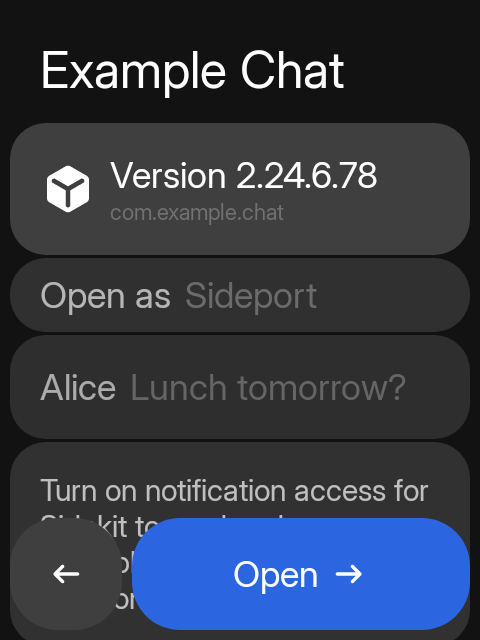
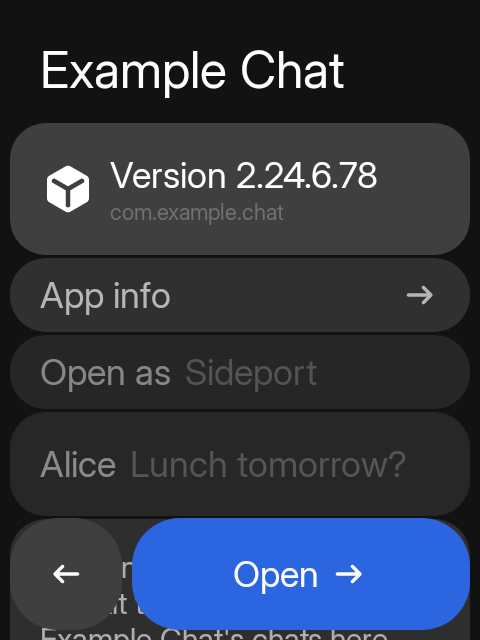
feat(ui): keep navigation in rows and reset in the bar
Keypad mapping shows Reset keys in the bar only while custom bindings exist, and no longer duplicates it in Options. Sideport's App info becomes a row with a right arrow; Options keeps only Remove/Uninstall. Apply the same rule to Mail Account, Sideplay Settings, Sideweather Locations, Compass Bookmarks, and Sideplay Now playing, and make Arrange apps' Reset a conditional bar action. Update the UI-pattern docs and screenshots.

diff --git a/app/src/main/java/hrln/interactive/sidekit/apps/mail/MailGraph.kt b/app/src/main/java/hrln/interactive/sidekit/apps/mail/MailGraph.kt
@@ -81,12 +81,9 @@ fun NavGraphBuilder.mailGraph(nav: NavHostController) {
             SidekitScaffold(
                 title = "Mail",
                 actions = actions,
-                options = listOf(
-                    SideAction("refresh", "Refresh inbox") { vm.refresh() },
-                    SideAction("account", "Account") { nav.navigate("$ROOT/account") }
-                )
+                options = listOf(SideAction("refresh", "Refresh inbox") { vm.refresh() })
             ) { padding ->
-                MessageList(padding, messages, null, vm::delete) { nav.navigate(if (it.folder == MailFolder.Inbox || it.folder == MailFolder.Sent) "$ROOT/read/${it.id}" else "$ROOT/compose?id=${it.id}") }
+                MessageList(padding, messages, null, vm::delete, onAccount = { nav.navigate("$ROOT/account") }) { nav.navigate(if (it.folder == MailFolder.Inbox || it.folder == MailFolder.Sent) "$ROOT/read/${it.id}" else "$ROOT/compose?id=${it.id}") }
             }
         }
         composable("$ROOT/account") {
@@ -218,6 +215,7 @@ private fun MessageList(
     messages: List<MailMessage>?,
     folder: MailFolder?,
     onDelete: (Long) -> Unit,
+    onAccount: (() -> Unit)? = null,
     onOpen: (MailMessage) -> Unit
 ) {
     val shown = messages.orEmpty().filter { folder == null || it.folder == folder }
@@ -229,13 +227,18 @@ private fun MessageList(
                 SidekitText("Inbox cache · refresh to check your server. Swipe deletes the cached copy only.", style = SidekitTheme.typography.caption, color = SidekitTheme.colors.surfaceA6, maxLines = Int.MAX_VALUE)
             }
         }
+        if (onAccount != null) {
+            item(key = "account") {
+                SidekitItem("Account", Modifier.listFade(state, 1), showLinkArrow = true, onClick = onAccount)
+            }
+        }
         if (messages != null && shown.isEmpty()) {
             item(key = "empty") {
-                SidekitItem(if (folder == null) "No local messages" else "No ${folder.label.lowercase()}", Modifier.listFade(state, 1), secondary = "Compose creates a draft on this phone")
+                SidekitItem(if (folder == null) "No local messages" else "No ${folder.label.lowercase()}", Modifier.listFade(state, 2), secondary = "Compose creates a draft on this phone")
             }
         }
         itemsIndexed(shown, key = { _, it -> it.id }) { index, message ->
-            SidekitSwipeRow(key = message.id, group = swipe, onDelete = { onDelete(message.id) }, modifier = Modifier.animateItem().listFade(state, index + 1), deleteLabel = "Delete message") {
+            SidekitSwipeRow(key = message.id, group = swipe, onDelete = { onDelete(message.id) }, modifier = Modifier.animateItem().listFade(state, index + 2), deleteLabel = "Delete message") {
                 SidekitItem((if (message.folder == MailFolder.Inbox) message.sender else message.to).ifEmpty { "No recipient" }, secondary = "${message.folder.label} · ${message.subject.ifEmpty { "No subject" }}", onClick = { onOpen(message) })
             }
         }

diff --git a/app/src/test/java/hrln/interactive/sidekit/apps/sideport/SideportHubUiTest.kt b/app/src/test/java/hrln/interactive/sidekit/apps/sideport/SideportHubUiTest.kt
@@ -22,7 +22,7 @@ import org.junit.runner.RunWith
 import org.robolectric.annotation.Config
 import org.robolectric.annotation.GraphicsMode
 
-/** A ported app's hub: the app header, its chats and media, and Remove/Uninstall in the body. */
+/** A ported app's hub: the app header, its chats and media, and Remove/Uninstall in Options. */
 @RunWith(AndroidJUnit4::class)
 @Config(sdk = [31])
 @GraphicsMode(GraphicsMode.Mode.NATIVE)
@@ -67,14 +67,17 @@ class SideportHubUiTest {
 
     private fun installed() = SideportHubUiState(app, version = "2.24.6.78", chats = listOf(chat))
 
-    @Test fun `hub shows the app and its version, with actions in Options`() {
+    @Test fun `hub shows the app, its version and App info as a row`() {
         show(installed())
         compose.onRoot().captureRoboImage("screenshots/sideport_hub.png")
         compose.onNodeWithText("Version 2.24.6.78").assertExists()
         compose.onNodeWithText("com.example.chat").assertExists()
+        compose.onNodeWithText("App info").assertExists()
         compose.onNodeWithText("Open as").assertExists()
         compose.onNodeWithText("Remove from Sideport").assertDoesNotExist()
         compose.onNodeWithText("Uninstall app").assertDoesNotExist()
+        compose.onNodeWithText("App info").performClick()
+        assertEquals(listOf("info"), calls)
     }
 
     @Test fun `a message replaces the bar and dismisses on tap`() {
@@ -127,20 +130,19 @@ class SideportHubUiTest {
         compose.onNodeWithText("Cancel").assertDoesNotExist()
     }
 
-    @Test fun `Options holds the app's secondary actions`() {
+    @Test fun `Options holds only the destructive actions`() {
         show(installed())
         compose.runOnIdle { chrome.toggleOptions() }
-        compose.onNodeWithText("App info").assertExists()
+        // App info stays a single row; Options adds only the destructive actions.
+        compose.onAllNodesWithText("App info").assertCountEquals(1)
         compose.onNodeWithText("Remove from Sideport").assertExists()
         compose.onNodeWithText("Uninstall app").assertExists()
-        compose.onNodeWithText("App info").performClick()
-        assertEquals(listOf("info"), calls)
     }
 
-    @Test fun `an app that is gone has no App info or Uninstall`() {
+    @Test fun `an app that is gone has no App info row or Uninstall`() {
         show(SideportHubUiState(app, version = null))
-        compose.runOnIdle { chrome.toggleOptions() }
         compose.onNodeWithText("App info").assertDoesNotExist()
+        compose.runOnIdle { chrome.toggleOptions() }
         compose.onNodeWithText("Uninstall app").assertDoesNotExist()
         compose.onNodeWithText("Remove from Sideport").assertExists()
     }

diff --git a/app/src/main/java/hrln/interactive/sidekit/apps/sideweather/SideweatherGraph.kt b/app/src/main/java/hrln/interactive/sidekit/apps/sideweather/SideweatherGraph.kt
@@ -75,7 +75,7 @@ fun NavGraphBuilder.sideweatherGraph(nav: NavHostController) {
                 if (page in listOf("home", "hourly", "five-day")) WhileVisible(place?.key) { vm.visible(place) }
                 val back = { nav.popBackStack(); Unit }
                 val locations = { nav.navigate("$root/locations") { launchSingleTop = true }; Unit }
-                val options = listOf(SideAction("locations", "Locations", onClick = locations), SideAction("units", if (imperial) "Use °C" else "Use °F") { vm.repository.settings.edit { it.copy(fahrenheit = !it.fahrenheit) } })
+                val options = listOf(SideAction("units", if (imperial) "Use °C" else "Use °F") { vm.repository.settings.edit { it.copy(fahrenheit = !it.fahrenheit) } })
                 when (page) {
                     "search" -> PlaceSearch(back) {
                         vm.repository.select(it)
@@ -119,7 +119,7 @@ fun NavGraphBuilder.sideweatherGraph(nav: NavHostController) {
                         }
                     }
 
-                    "home" -> SideweatherHomeScreen(forecast?.let { f -> place?.let { f.current(it, imperial) } } ?: CurrentConditions(place?.name ?: "Choose a location", "—", "", ""), forecast?.summary(imperial).orEmpty() + WeatherRow(error ?: status, ""), { nav.navigate("$root/hourly") }, { nav.navigate("$root/five-day") }, options)
+                    "home" -> SideweatherHomeScreen(forecast?.let { f -> place?.let { f.current(it, imperial) } } ?: CurrentConditions(place?.name ?: "Choose a location", "—", "", ""), forecast?.summary(imperial).orEmpty() + WeatherRow(error ?: status, ""), { nav.navigate("$root/hourly") }, { nav.navigate("$root/five-day") }, locations, options)
                     else -> ForecastScreen(if (page == "hourly") "Hourly forecast" else "5-day forecast", (if (page == "hourly") forecast?.hourly(imperial) else forecast?.daily(imperial)).orEmpty() + WeatherRow(status, ""), back, locations, place = place?.name)
                 }
             }

diff --git a/app/src/main/java/hrln/interactive/sidekit/apps/settings/KeypadMappingScreen.kt b/app/src/main/java/hrln/interactive/sidekit/apps/settings/KeypadMappingScreen.kt
@@ -70,11 +70,20 @@ internal fun KeypadMappingScreen(back: () -> Unit, learn: (KeypadModule, KeypadC
     val list = rememberLazyListState()
     fun toggle() { keypad?.useCustomMapping(if (custom == null) keypad.module else null) }
     fun nextLayout() { custom?.let { keypad.useCustomMapping(KeypadModule.entries[(it.ordinal + 1) % KeypadModule.entries.size]) } }
-    val options = buildList {
-        if (custom != null && bindings.isNotEmpty()) add(SideAction("reset", "Reset keys", SidekitIcon.Undo, tone = ActionTone.Destructive) { mapper.resetAll(custom) })
-        if (custom != null) add(SideAction("automatic", "Use automatic", tone = ActionTone.Muted) { keypad.useCustomMapping(null) })
+    // Reset is a bar action only when there is something to reset, so it never sits around as a
+    // dead option. Switching back to automatic stays in Options: it is a mode change, not a reset.
+    val actions = buildList {
+        add(SideAction.back("back", "Settings", back))
+        if (custom != null && bindings.isNotEmpty()) {
+            add(SideAction("reset", "Reset keys", SidekitIcon.Undo, tone = ActionTone.Destructive) { mapper.resetAll(custom) })
+        }
     }
-    SidekitScaffold("Keypad mapping", actions = listOf(SideAction.back("back", "Settings", back)), options = options) { padding ->
+    val options = if (custom != null) {
+        listOf(SideAction("automatic", "Use automatic", tone = ActionTone.Muted) { keypad.useCustomMapping(null) })
+    } else {
+        emptyList()
+    }
+    SidekitScaffold("Keypad mapping", actions = actions, options = options) { padding ->
         SidekitList(padding, state = list) {
             item {
                 SidekitItem("Mapping", Modifier.height(CompactRowHeight).listFade(list, 0), secondary = if (custom == null) "Automatic" else "Custom", onClick = ::toggle)

diff --git a/app/src/main/java/hrln/interactive/sidekit/apps/sideport/SideportGraph.kt b/app/src/main/java/hrln/interactive/sidekit/apps/sideport/SideportGraph.kt
@@ -385,9 +385,8 @@ internal fun SideportHubContent(
         SideAction.square("back", SidekitIcon.ArrowLeftAlt, "Back", onBack, tone = ActionTone.Muted, motion = ActionMotion.Back),
         SideAction.forward("open", "Open", onOpen)
     )
-    // Secondary actions live in Options; destructive ones still confirm in the bar.
+    // Navigation belongs in the list; Options holds only the destructive actions.
     val options = buildList {
-        if (state.version != null) add(SideAction("info", "App info", SidekitIcon.Settings) { onInfo() })
         add(SideAction("remove", "Remove from Sideport", SidekitIcon.DeleteForever, tone = ActionTone.Destructive) { onAsk(HubRemoval.Remove) })
         if (state.version != null) add(SideAction("uninstall", "Uninstall app", SidekitIcon.DeleteForever, tone = ActionTone.Destructive) { onAsk(HubRemoval.Uninstall) })
     }
@@ -398,6 +397,10 @@ internal fun SideportHubContent(
             val header = index++
             item(key = "header") { SideportHeader(app, state.version, Modifier.listFade(list, header)) }
             if (state.version != null) {
+                val info = index++
+                item(key = "info") {
+                    SidekitItem("App info", Modifier.height(CompactRowHeight).listFade(list, info), showLinkArrow = true, onClick = onInfo)
+                }
                 val mode = index++
                 item(key = "mode") {
                     SidekitItem(

diff --git a/app/src/main/java/hrln/interactive/sidekit/apps/settings/ArrangeHomeScreen.kt b/app/src/main/java/hrln/interactive/sidekit/apps/settings/ArrangeHomeScreen.kt
@@ -139,18 +139,16 @@ internal fun ArrangeHomeScreen(back: () -> Unit) {
             SideAction("discard", "Discard", icon = SidekitIcon.Undo, tone = ActionTone.Destructive, motion = ActionMotion.Up, onClick = ::discard)
         )
     } else {
-        listOf(
-            SideAction.back("back", "Settings", ::requestBack),
-            SideAction.forward("done", "Done", ::done, icon = SidekitIcon.Check)
-        )
+        buildList {
+            add(SideAction.back("back", "Settings", ::requestBack))
+            // Reset is only useful while the buffer differs from the built-in default.
+            if (!arranger.isDefault) {
+                add(SideAction("reset", "Reset", icon = SidekitIcon.Undo, tone = ActionTone.Muted, onClick = { arranger.reset() }))
+            }
+            add(SideAction.forward("done", "Done", ::done, icon = SidekitIcon.Check))
+        }
     }
-    val options = if (confirmingDiscard) {
-        emptyList()
-    } else {
-        listOf(
-            SideAction("reset", "Reset", icon = SidekitIcon.Undo, tone = ActionTone.Muted, onClick = { arranger.reset() })
-        )
-    }
+    val options = emptyList<SideAction>()
     SidekitScaffold(
         "Arrange apps",
         // With nothing selected, Up/Down are left to focus traversal, so the keypad walks the app

diff --git a/app/src/main/java/hrln/interactive/sidekit/apps/sideweather/SideweatherScreens.kt b/app/src/main/java/hrln/interactive/sidekit/apps/sideweather/SideweatherScreens.kt
@@ -44,7 +44,8 @@ fun SideweatherHomeScreen(
     summary: List<WeatherRow>,
     onHourly: () -> Unit,
     onFiveDay: () -> Unit,
-    options: List<SideAction> = emptyList(),
+    onLocations: () -> Unit,
+    options: List<SideAction> = emptyList()
 ) {
     SidekitScaffold(
         title = "Sideweather",
@@ -55,6 +56,9 @@ fun SideweatherHomeScreen(
         SidekitList(padding, state = list) {
             item { Box(Modifier.listFade(list, 0)) { ConditionsCard(current) } }
             itemsIndexed(summary) { i, row -> SidekitItem(title = row.label, secondary = row.detail, modifier = Modifier.listFade(list, i + 1)) }
+            item(key = "locations") {
+                SidekitItem("Locations", Modifier.listFade(list, summary.size + 1), showLinkArrow = true, onClick = onLocations)
+            }
         }
     }
 }
@@ -129,7 +133,7 @@ fun LocationsScreen(locations: List<WeatherRow>, hint: String, onBack: () -> Uni
 @SidephonePreview
 @Composable
 private fun SideweatherHomePreview() = SidekitPreviewFrame {
-    SideweatherHomeScreen(SideweatherSampleData.current, SideweatherSampleData.summary, {}, {})
+    SideweatherHomeScreen(SideweatherSampleData.current, SideweatherSampleData.summary, {}, {}, {})
 }
 
 @SidephonePreview

diff --git a/app/src/main/java/hrln/interactive/sidekit/apps/compass/CompassLive.kt b/app/src/main/java/hrln/interactive/sidekit/apps/compass/CompassLive.kt
@@ -74,7 +74,7 @@ fun LiveCompass(onBookmarks: () -> Unit) {
                 }
             }
         ),
-        options = listOf(location, SideAction("bookmarks", "Bookmarks", onClick = onBookmarks))
+        options = listOf(location)
     ) { padding ->
         SidekitList(padding, state = list) {
             item { Box(Modifier.fillMaxWidth().height(278.dp).listFade(list, 0), contentAlignment = androidx.compose.ui.Alignment.TopCenter) { CompassDial({ sensor.angle.floatValue }, Modifier.padding(top = 5.dp)) } }
@@ -89,6 +89,9 @@ fun LiveCompass(onBookmarks: () -> Unit) {
             }
             item { OutdoorInfo(error ?: if (lowAccuracy) "Low accuracy: move phone in a figure eight, away from metal" else status, modifier = Modifier.listFade(list, 2)) }
             item { OutdoorInfo("Location is optional", secondary = "Options → Allow attaches an approximate location to saved headings", modifier = Modifier.listFade(list, 3)) }
+            item(key = "bookmarks") {
+                SidekitItem("Bookmarks", Modifier.listFade(list, 4), showLinkArrow = true, onClick = onBookmarks)
+            }
         }
     }
 }

diff --git a/app/src/main/java/hrln/interactive/sidekit/home/HomeArranger.kt b/app/src/main/java/hrln/interactive/sidekit/home/HomeArranger.kt
@@ -27,12 +27,16 @@ class HomeArranger(private val home: HomePreferences, known: Iterable<String>) {
     private val appendedDefaults: List<String> = knownIds.filter { it !in builtinIds }
 
     private val initialOrder = home.homeOrderFor(knownIds)
+    private val defaultOrder = SubApp.entries.map { it.visibilityId() }.filter { it in knownIds } + appendedDefaults
 
     var order by mutableStateOf(initialOrder)
         private set
 
     /** True when the buffer differs from the order it was seeded with (Reset counts as a change). */
     val hasPendingChanges: Boolean get() = order != initialOrder
+
+    /** True when the buffer is already the built-in default, so Reset would do nothing. */
+    val isDefault: Boolean get() = order == defaultOrder
 
     /** The app currently selected for reordering, or null when not in selection mode. */
     var selected by mutableStateOf<String?>(null)

diff --git a/app/src/test/java/hrln/interactive/sidekit/apps/settings/KeypadMappingUiTest.kt b/app/src/test/java/hrln/interactive/sidekit/apps/settings/KeypadMappingUiTest.kt
@@ -94,7 +94,7 @@ class KeypadMappingUiTest {
         compose.mainClock.advanceTimeBy(1000)
         compose.onNodeWithText("Volume up").assertIsDisplayed()
         compose.onRoot().captureRoboImage("screenshots/keypad_mapping_editor_keys.png")
-        compose.runOnIdle { chrome.toggleOptions() }
+        // Reset is in the bar, not Options, while there are custom bindings.
         compose.onNodeWithText("Reset keys").performClick()
         compose.runOnIdle { assertTrue(keypad.mapper.bindings(KeypadModule.T9).isEmpty()) }
         compose.onNodeWithText("Menu").assertDoesNotExist()

diff --git a/app/src/test/java/hrln/interactive/sidekit/apps/sideweather/SideweatherScreenshotTest.kt b/app/src/test/java/hrln/interactive/sidekit/apps/sideweather/SideweatherScreenshotTest.kt
@@ -24,7 +24,7 @@ class SideweatherScreenshotTest {
 
     private val data = SideweatherSampleData
 
-    @Test fun home() = shoot("sideweather_94-322") { SideweatherHomeScreen(data.current, data.summary, {}, {}) }
+    @Test fun home() = shoot("sideweather_94-322") { SideweatherHomeScreen(data.current, data.summary, {}, {}, {}) }
 
     @Test fun hourly() = shoot("sideweather_hourly_94-385") { ForecastScreen("Hourly forecast", data.hourly, {}, {}) }
 

diff --git a/docs/ui-patterns-issue.md b/docs/ui-patterns-issue.md
@@ -90,15 +90,14 @@ These splits should be decided first so that subsequent refactoring follows a si
 1. **Does `Undo` take over the bar or add a button?**
    - _Recommendation:_ Additive approach (`Undo` on the left, `Back` is never removed). Losing the exit path on a two-button bar must be avoided.
 
-2. ✅ **Is the bar or the list the primary control surface?** — settled: the list navigates; the bar acts and reports. Rows open pages, select objects and change in-place settings; the bar carries the current object's commit/exit actions and transient notices; Options holds secondary object actions. In-body line buttons are not a third surface. `SurfaceConventionTest` guards Settings and Sideport.
+2. ✅ **Is the bar or the list the primary control surface?** — settled: the list navigates; the bar acts and reports. Rows open pages, select objects and change in-place settings; a row that opens another page carries the right arrow. The bar carries the current object's commit/exit actions and transient notices; a reset/clear action appears there only while it would change something. Options holds secondary object actions and never navigation. In-body line buttons are not a third surface. `SurfaceConventionTest` guards Settings and Sideport.
 
 3. ✅ **Where does a transient message go?** — settled: single-line transient messages use a bar notice; detailed or persistent explanations use a body card. Implemented as `withNotice` / `SideAction.notice`, with a 2-second success window and a 5-second window for other notices; tapping dismisses early.
 
 4. **Is "Cancel" always muted?**
    - _Recommendation:_ "Cancel" is always Muted (`grey` backs out, `green` commits, `red` destroys).
 
-5. **What is Options for?**
-   - _Recommendation:_ Options never handles primary navigation; it acts strictly on the current object.
+5. **What is Options for?** — partly settled: Options never handles navigation; navigation is a row with a right arrow. It acts strictly on the current object. The remaining question is which non-navigation actions belong there (modes, creation, toggles, destructive actions, state, error logs).
 
 6. **Is `ActionMotion` a real contract?**
    - _Recommendation:_ Enforce `ActionMotion` across all factory and hand-built action bars.
@@ -167,7 +166,7 @@ Each app starts with a short note on the patterns it currently uses, then the co
 - [ ] Establish hierarchy on the ringing screen — it currently has none.
 - [ ] Tint editor `Cancel` Muted and `Save` green; confirm the Options delete.
 
-**Compass** — `Calibrate | Save`, both Primary and untinted. Saved headings: `Back | Undo`. Feedback is a status string in the body. Options carry the permission action and bookmarks.
+**Compass** — `Calibrate | Save`, both Primary and untinted. Saved headings: `Back | Undo`. Feedback is a status string in the body. Bookmarks is a row with a right arrow; Options carry only the permission action.
 
 - [ ] Tint the commit and give it an icon.
 - [x] Decide whether the status string becomes a bar notice (Decision 3) — it stays a body status because it is persistent.
@@ -179,7 +178,7 @@ Each app starts with a short note on the patterns it currently uses, then the co
 
 ### Mail, Translate & Web
 
-**Mail** — One builder produces notice, then `Undo | Compose→`, then `←Folders | Compose→`; the Undo variant drops the back action. Message screen is `←Back | Reply`. Compose is the only three-wide text form, with a Muted `Save`. Only the `To` field takes the keypad.
+**Mail** — One builder produces notice, then `Undo | Compose→`, then `←Folders | Compose→`; the Undo variant drops the back action. Account is a row with a right arrow; Options carry only Refresh. Message screen is `←Back | Reply`. Compose is the only three-wide text form, with a Muted `Save`. Only the `To` field takes the keypad.
 
 - [ ] Resolve the three-wide compose bar (`Cancel | Save | Send`) and make `Send` the green commit or move `Save` to Options.
 - [ ] Make subject and body take the keypad.
@@ -232,16 +231,16 @@ Each app starts with a short note on the patterns it currently uses, then the co
 - [ ] Tint the commit; settle the Undo position with Decision 1.
 - [ ] Decide whether navigation stays in Options (Decision 5).
 
-**Sideweather** — `←Hourly | 5 days→`, then `Back | Locations→`, then `Back | Undo | Add` with Undo in the middle. Options carry locations and the unit toggle. Swipe deletes with `Undo`.
+**Sideweather** — `←Hourly | 5 days→`, then `Back | Locations→`, then `Back | Undo | Add` with Undo in the middle. Locations is a row with a right arrow on the home screen; Options carry only the unit toggle. Swipe deletes with `Undo`.
 
 - [ ] Move `Undo` to the left so the bar stops shuffling on delete.
 - [ ] Show selection state on the unit toggle.
 
 ### Settings, Apps & Utilities
 
-**Settings** — `←Home`, with About as a row; sub-screens are a single `Back`, and rows mutate their value in place. Arrange Home runs `←Settings | Done→` with `Reset` in Options. Messages use the notice channel, the case-colour default is a swatch, Hide apps' "Show all" is a bar action, and Keypad mapping's reset lives only in Options. No in-body line buttons remain in Settings or Sideport; `SurfaceConventionTest` guards that surface.
+**Settings** — `←Home`, with About as a row; sub-screens are a single `Back`, and rows mutate their value in place. Arrange Home runs `←Settings | Done→` and shows `Reset` in the bar only while the buffer differs from the default. Messages use the notice channel, the case-colour default is a swatch, Hide apps' "Show all" is a bar action, and Keypad mapping's reset appears in the bar only while custom bindings exist. No in-body line buttons remain in Settings or Sideport; `SurfaceConventionTest` guards that surface.
 
-- [x] Move `Done` to the right in Arrange Home. (Done: `Reset` moved to Options.)
+- [x] Move `Done` to the right in Arrange Home. (Done: `Reset` is a conditional bar action.)
 - [x] Move About from the bar to a row; keep the bar to Home.
 - [x] Move Settings and System settings messages to the notice channel.
 - [x] Remove the in-body line buttons (case colour, hide apps, keypad reset).
@@ -257,7 +256,7 @@ Each app starts with a short note on the patterns it currently uses, then the co
 - [ ] Tint the clear-history confirm red.
 - [ ] Decide whether `CalcKey` colours merge with `ActionTone`.
 
-**Sideport** — Own screens follow the house style: `←Home | Add app→`, `←Back | Install APK→`, `Cancel | Remove` in red, square Muted `Back` + `Open→`, and a chat bar with green `Send`. Remove/Uninstall live in Options and still confirm in the bar; messages use the notice channel. Projected apps rebuild the bar from a foreign action spec with tones mapped one to one, and their in-body `ButtonBlock`s remain the one deliberate line-button exception.
+**Sideport** — Own screens follow the house style: `←Home | Add app→`, `←Back | Install APK→`, `Cancel | Remove` in red, square Muted `Back` + `Open→`, and a chat bar with green `Send`. App info is a row with a right arrow; Options hold only Remove/Uninstall, which still confirm in the bar. Messages use the notice channel. Projected apps rebuild the bar from a foreign action spec with tones mapped one to one, and their in-body `ButtonBlock`s remain the one deliberate line-button exception.
 
 - [ ] Decide how far ported app bars should be normalized.
 - [ ] Set keypad capture on ported forms.
